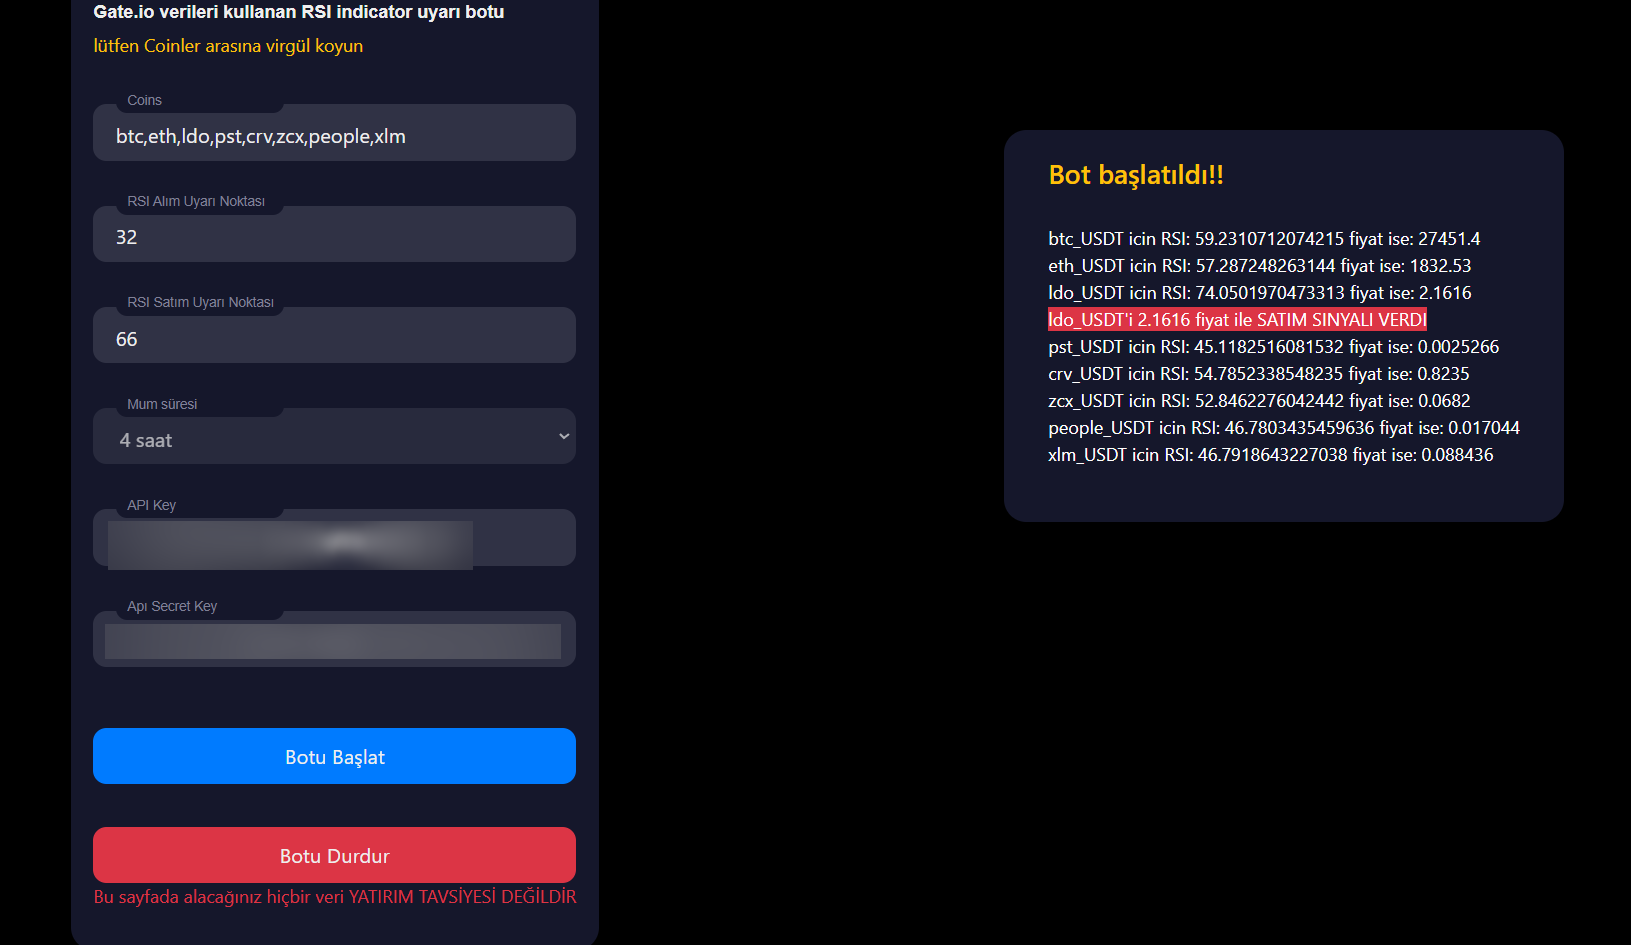
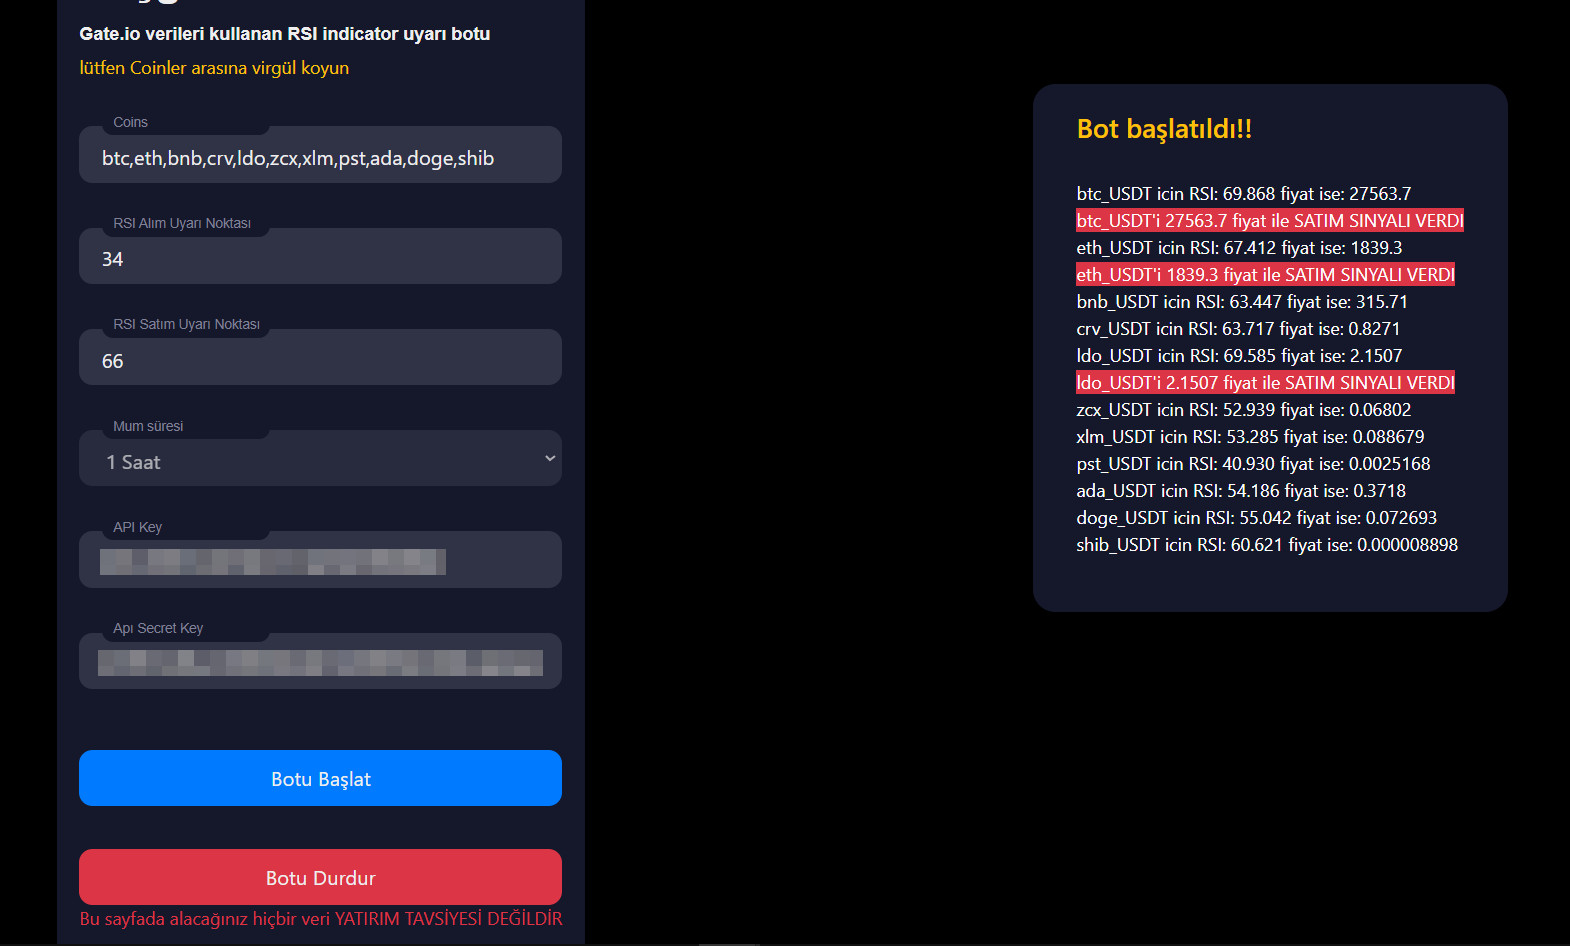
forGithub

Changed region(s): [[0.0312, 0.0, 0.3745, 1.0], [0.593, 0.0614, 0.9675, 0.6444]]

diff --git a/services/RsiServices.cs b/services/RsiServices.cs
@@ -62,8 +62,9 @@ namespace AlSatBot.services
                     
                     var ticker1 = apiInstance.ListTickers(coin, _timezone);
                     var price1 = ticker1[0];
+                    var RoundLastRsi = Math.Round(lastRsi, 3);
 
-                    data += $" {coin} icin RSI: {lastRsi} fiyat ise: {price1.Last}   #  ++";
+                    data += $" {coin} icin RSI: {RoundLastRsi} fiyat ise: {price1.Last}   #  ++";
 
                     // RSI alım fırsatı
                     if (lastRsi < rsi_buy_threshold)
